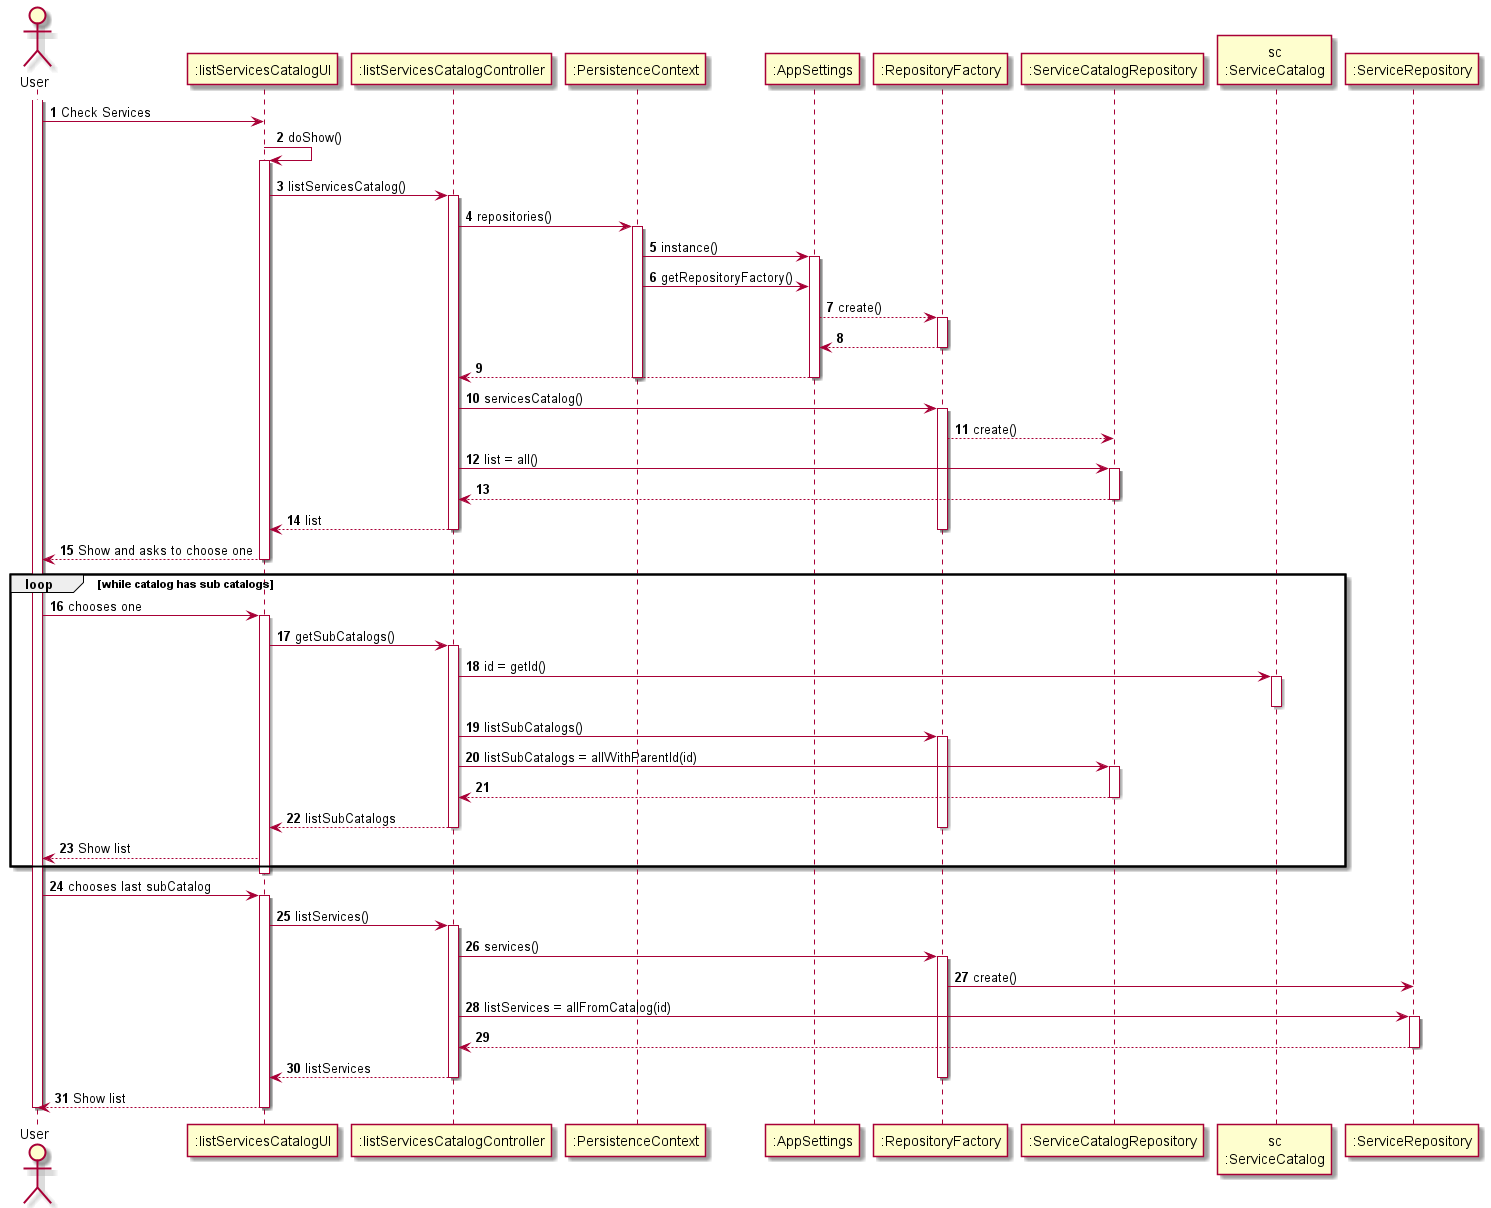
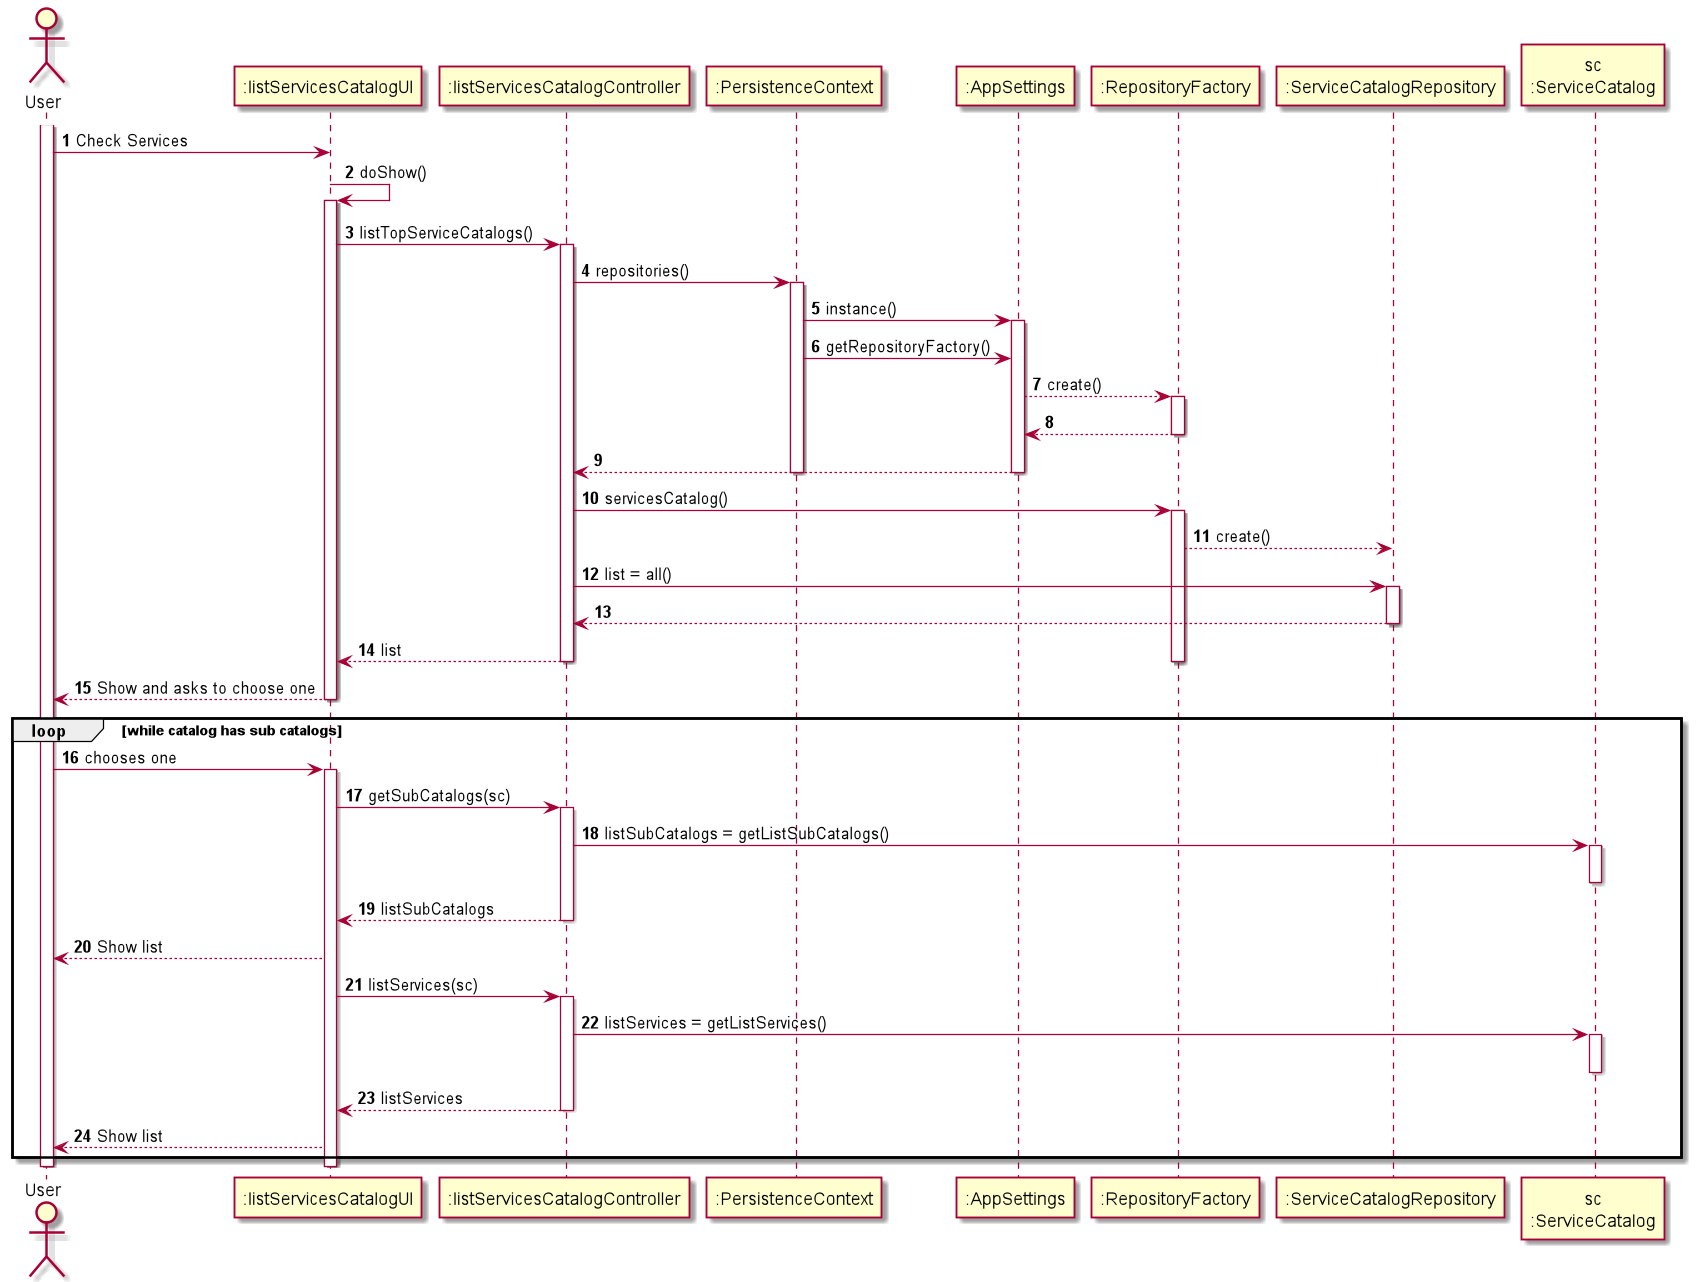
<S4202121-9> + <S4202121-10> Changes in the .md files

diff --git a/docs/1190743/US3001/US3001.md b/docs/1190743/US3001/US3001.md
@@ -16,50 +16,95 @@ A interpretação feita deste requisito foi no sentido de criar uma forma do Cli
 
 O Cliente terá, depois de efetuado o login, uma opção no menu para a consulta ao que foi especificado.
 
-Este apenas terá acesso a Serviços e Catálogos disponibilizados de acordo com as suas permissões.
+Este apenas terá acesso a Serviços e Catálogos disponibilizados de acordo com as suas permissões. -> Não implementado ainda.
 
 # 3. Design
 
-*Nesta secção a equipa deve descrever o design adotado para satisfazer a funcionalidade. Entre outros, a equipa deve apresentar diagrama(s) de realização da funcionalidade, diagrama(s) de classes, identificação de padrões aplicados e quais foram os principais testes especificados para validar a funcionalidade.*
-
-*Para além das secções sugeridas, podem ser incluídas outras.*
-
 ## 3.1. Realização da Funcionalidade
 
-*Nesta secção deve apresentar e descrever o fluxo/sequência que permite realizar a funcionalidade.*
+![SD_US3001.png](SD_US3001.png)
 
 ## 3.2. Diagrama de Classes
 
-*Nesta secção deve apresentar e descrever as principais classes envolvidas na realização da funcionalidade.*
+Não necessário para este caso de uso.
 
 ## 3.3. Padrões Aplicados
 
-*Nesta secção deve apresentar e explicar quais e como foram os padrões de design aplicados e as melhores práticas.*
+Para a resolução deste caso de uso, foram utilizadas as classes Controller, UI e Persistance Context ,e as interfaces Repository.
 
-## 3.4. Testes 
-*Nesta secção deve sistematizar como os testes foram concebidos para permitir uma correta aferição da satisfação dos requisitos.*
+Todas as classes usadas (excluindo as extensões/implementações das classes/interfaces):
+*   ListServiceCatalogsUI
+*   ListServiceCatalogsController
+*   PersistanceContext
+*   AppSettings
+*   RepositoryFactory
+*   ServiceCatalog
+*   Service
 
-**Teste 1:** Verificar que não é possível criar uma instância da classe Exemplo com valores nulos.
-
-	@Test(expected = IllegalArgumentException.class)
-		public void ensureNullIsNotAllowed() {
-		Exemplo instance = new Exemplo(null, null);
-	}
+Todas as Interfaces usadas (excluindo as extensões/implementações das classes/interfaces):
+*   ServiceCatalogRepository
+*   ServiceRepository
 
 # 4. Implementação
 
-*Nesta secção a equipa deve providenciar, se necessário, algumas evidências de que a implementação está em conformidade com o design efetuado. Para além disso, deve mencionar/descrever a existência de outros ficheiros (e.g. de configuração) relevantes e destacar commits relevantes;*
+    public List<ServiceCatalog> listTopServiceCatalogs(){
+        List<ServiceCatalog> list = new ArrayList<>();
+        scr = rf.serviceCatalogs();
+        scr.findTopCatalogs().forEach(list::add);
+        return list;
+    }
 
-*Recomenda-se que organize este conteúdo por subsecções.*
+    private boolean subCatalogsMenu(ServiceCatalog serviceCatalog){
+        boolean back = true;
+        while(back) {
+            assert serviceCatalog.getListServices() != null;
+            List<Service> listS = new ArrayList<>(serviceCatalog.getListServices());
+            assert serviceCatalog.getListSubCatalogs() != null;
+            List<ServiceCatalog> listCS = new ArrayList<>(serviceCatalog.getListSubCatalogs());
+            int contador = 0;
+            for (ServiceCatalog sc : listCS) {
+                System.out.printf("(Catalog) %d -> %s - %s\n", contador, sc.getTitle(), sc.identity());
+                contador++;
+            }
+
+            for (Service s : listS) {
+                System.out.printf("(Service) %d -> %s - %s\n", contador, s.getName(), s.identity());
+                contador++;
+            }
+            System.out.printf("%d -> Back.\n", contador);
+            int option = Console.readInteger("Select catalog or service.\n");
+            while (option < 0 || option > listCS.size()+listS.size()) {
+                System.out.println("Invalid option. Try again.");
+                option = Console.readInteger("Select collaborator.\n");
+            }
+            if (option == contador) {
+                return true;
+            } else if(option<listCS.size()){
+                ServiceCatalog sc = listCS.get(option);
+                subCatalogsMenu(sc);
+            } else {
+                Service s = listS.get(option);
+                System.out.printf("(Service) %d -> %s - %s\n", contador, s.getName(), s.identity());
+                System.out.println("Not implemented yet!\n");
+            }
+        }
+        return true;
+    }
 
 # 5. Integração/Demonstração
 
-*Nesta secção a equipa deve descrever os esforços realizados no sentido de integrar a funcionalidade desenvolvida com as restantes funcionalidades do sistema.*
+Sendo que eram necessários objetos das classes ServiceCatalog e Service da base de dados, foi necessário o acesso à mesma, indo buscar os catálogos de serviço.
+
+Uma vez que o critério de acesso não se encontra implementado, também foi necessária a criação de uma variável boolean para saber se aquele catálogo era ou não primário, de modo a aparecer logo.
+
 
 # 6. Observações
 
-*Nesta secção sugere-se que a equipa apresente uma perspetiva critica sobre o trabalho desenvolvido apontando, por exemplo, outras alternativas e ou trabalhos futuros relacionados.*
+Futuramente, será necessário reformular o caso de uso nos seguintes modos:
 
+* implementação do critério de acesso;
+* remoção da variável de identificação de catálogo primário;
+* menor manuseamento de dados a partir da UI.
 
 
 

diff --git a/docs/1190743/US2053/US2053.md b/docs/1190743/US2053/US2053.md
@@ -73,12 +73,18 @@ Todas as Interfaces usadas (excluindo as extensões/implementações das classes
 
 # 5. Integração/Demonstração
 
-*Nesta secção a equipa deve descrever os esforços realizados no sentido de integrar a funcionalidade desenvolvida com as restantes funcionalidades do sistema.*
+Para a realização deste caso de uso, o uso de objetos tipo Team e Collaborator foram necessários.
+
+A ligação com a base de dados foi feita 2 vezes, na busca das equipas e dos colaboradores.
+
+A Team tem, não só um Set de Collaborators, como também um colaborador responsável.
 
 # 6. Observações
 
-*Nesta secção sugere-se que a equipa apresente uma perspetiva critica sobre o trabalho desenvolvido apontando, por exemplo, outras alternativas e ou trabalhos futuros relacionados.*
+Este UC está implementado, porém, futuramente, poderão ser necessárias as seguintes melhorias:
 
+* Acesso ao menu apenas por RRH;
+* Ligação diferente entre Team e Collaborator.
 
 
 
